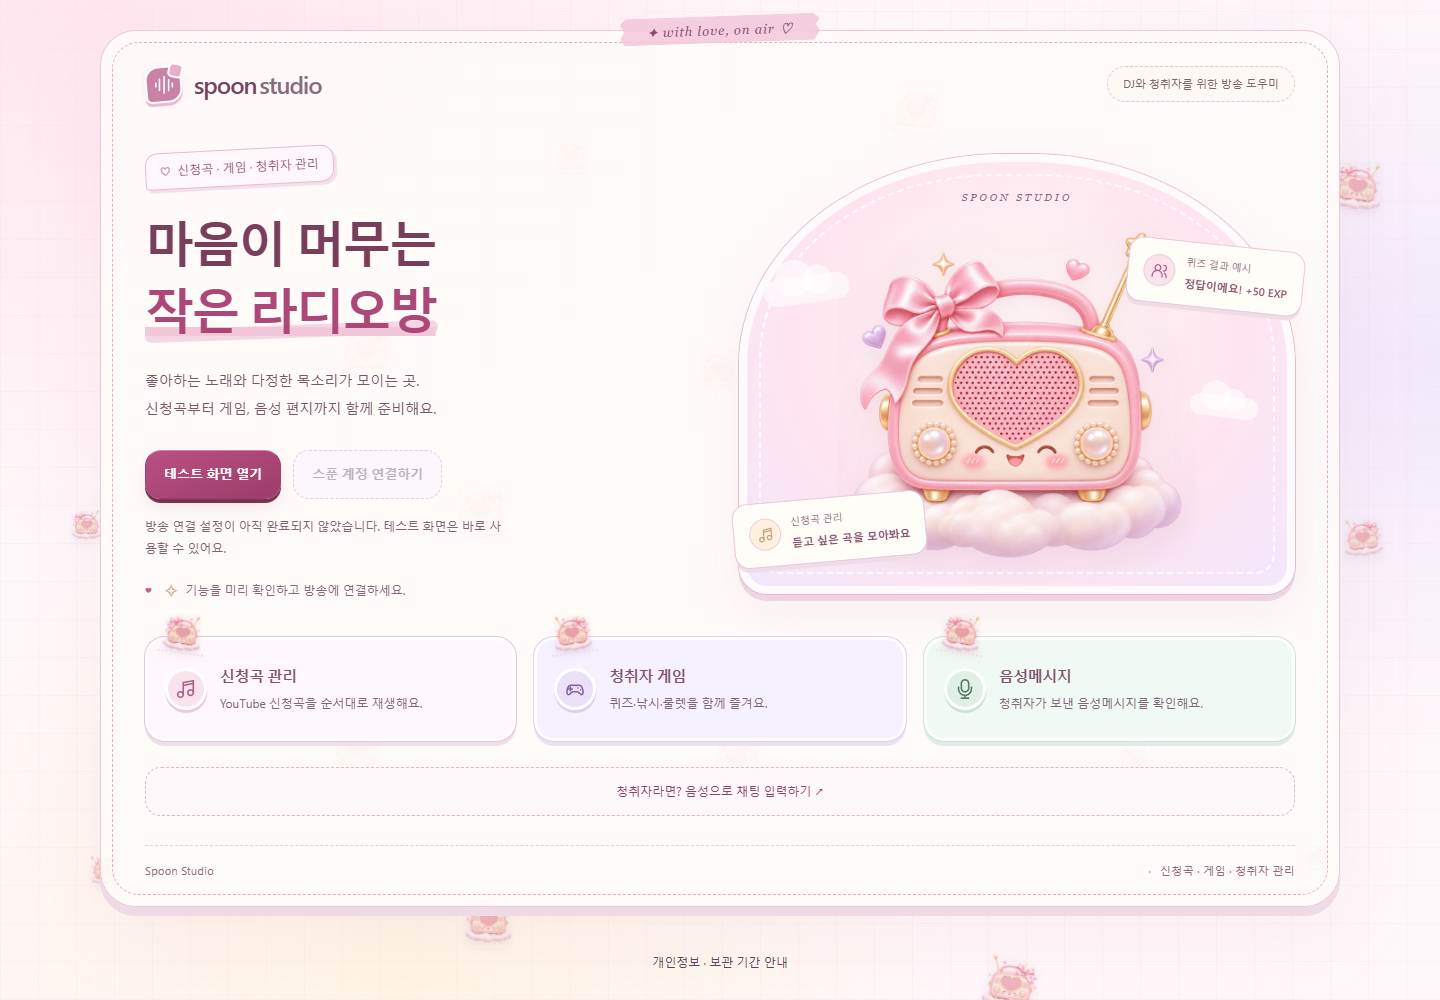
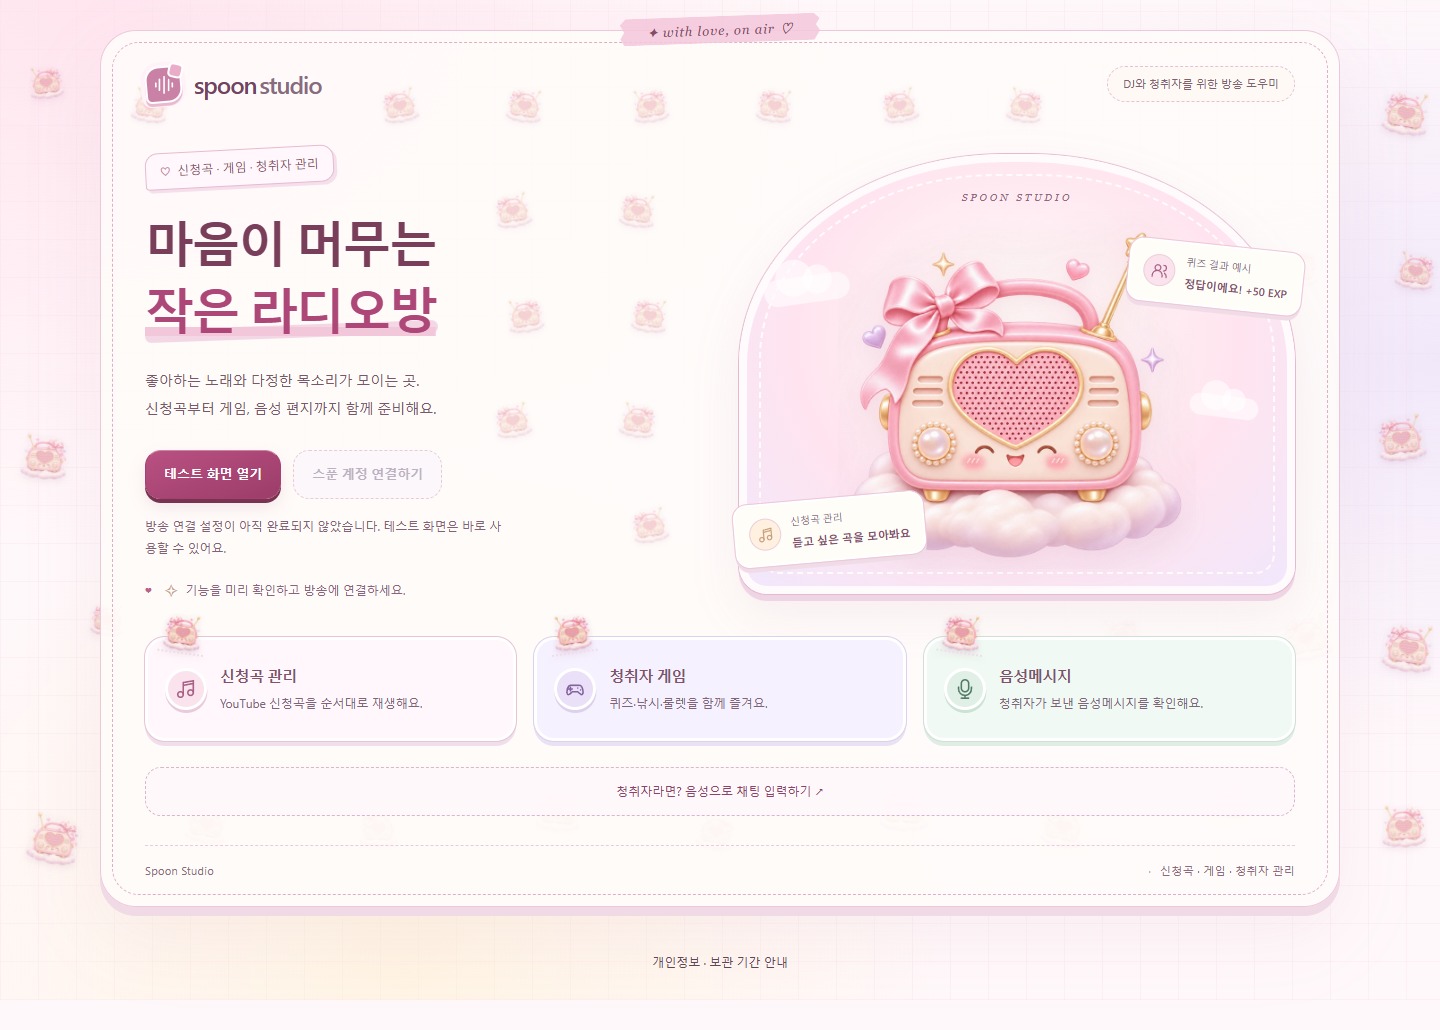
Add more radio minimi wallpaper and official Spoon charging links

diff --git a/public/minimi.js b/public/minimi.js
@@ -3,21 +3,51 @@
   const SRC = '/radio-bloom-mini.webp';
   let seed = 7;
   const rnd = () => (seed = (seed * 16807) % 2147483647) / 2147483647;
+  let wallpaperSize='';
+  function sticker(layer,x,y,size,rotation,flip,index){
+    const img=document.createElement('img');img.src=SRC;img.alt='';img.decoding='async';
+    img.style.cssText=`left:${Math.round(x)}px;top:${Math.round(y)}px;width:${size}px;--r:${rotation}deg;--f:${flip};animation-delay:-${index*.47}s`;
+    layer.appendChild(img);
+  }
   function makeLayer() {
-    if (document.querySelector('.minimi-layer')) return;
-    const layer = document.createElement('div');
-    layer.className = 'minimi-layer';
-    layer.setAttribute('aria-hidden', 'true');
-    const cols = innerWidth < 800 ? 3 : 7, rows = innerWidth < 800 ? 6 : 5;
-    for (let r = 0; r < rows; r++) for (let c = 0; c < cols; c++) {
-      if ((r + c) % 2) continue;
-      const img = document.createElement('img');
-      img.src = SRC; img.alt = ''; img.decoding = 'async'; img.loading = 'lazy';
-      const w = 30 + Math.round(rnd() * 32);
-      img.style.cssText = `left:${((c + 0.15 + rnd() * 0.7) / cols * 100).toFixed(1)}%;top:${((r + 0.15 + rnd() * 0.7) / rows * 100).toFixed(1)}%;width:${w}px;--r:${Math.round(rnd() * 24 - 12)}deg;--f:${rnd() < 0.5 ? 0 : 1};animation-delay:-${(rnd() * 5).toFixed(1)}s`;
-      layer.appendChild(img);
+    const width=document.documentElement.clientWidth,height=Math.max(document.body.scrollHeight,innerHeight),key=width+':'+height+':'+document.querySelector('#shell')?.dataset.page+':'+document.querySelector('#login')?.hidden;
+    let layer=document.querySelector('.minimi-layer');
+    if(!layer){layer=document.createElement('div');layer.className='minimi-layer';layer.setAttribute('aria-hidden','true');document.body.prepend(layer);}
+    if(key===wallpaperSize)return;wallpaperSize=key;layer.replaceChildren();layer.style.height=height+'px';seed=7;
+    const blocked=[...document.querySelectorAll('#page-title,.header-actions,.page-description,.banner,.welcome-top,.landing-copy,.welcome-footer,footer,body>p')].map(el=>{const r=el.getBoundingClientRect();return {left:r.left,right:r.right,top:r.top+scrollY,bottom:r.bottom+scrollY,width:r.width,height:r.height};}).filter(r=>r.width&&r.height);
+    const mobile=width<800,stepX=mobile?105:170,stepY=mobile?155:180;
+    let index=0;
+    for(let y=22;y<height-30&&index<150;y+=stepY)for(let x=10;x<width-25&&index<150;x+=stepX){
+      const size=Math.round((mobile?25:36)+rnd()*(mobile?9:20));
+      const px=Math.max(3,Math.min(width-size-4,x+((Math.round(y/stepY)%2)?stepX*.4:0)+rnd()*20));
+      const py=Math.min(height-size-4,y+rnd()*40);
+      if(blocked.some(r=>px<r.right+10&&px+size>r.left-10&&py<r.bottom+10&&py+size>r.top-10))continue;
+      sticker(layer,px,py,size,Math.round(rnd()*24-12),rnd()<.5?0:1,index++);
     }
-    document.body.prepend(layer);
+  }
+  function fillWelcomePaper(){
+    const host=document.querySelector('.welcome-home');if(!host||host.hidden)return;
+    let layer=host.querySelector(':scope > .minimi-wallpaper');
+    if(!layer){layer=document.createElement('div');layer.className='minimi-wallpaper';layer.setAttribute('aria-hidden','true');host.prepend(layer);}
+    layer.replaceChildren();
+    const box=host.getBoundingClientRect(),blocked=[];
+    for(const el of host.querySelectorAll('button,a,input,.welcome-stage,.welcome-features article')){
+      const r=el.getBoundingClientRect();if(r.width&&r.height)blocked.push(r);
+    }
+    const walker=document.createTreeWalker(host,NodeFilter.SHOW_TEXT);
+    while(walker.nextNode()){
+      const node=walker.currentNode;if(!node.textContent.trim()||node.parentElement.closest('.minimi-wallpaper'))continue;
+      const range=document.createRange();range.selectNodeContents(node);
+      for(const rect of range.getClientRects())if(rect.width&&rect.height)blocked.push(rect);
+    }
+    const mobile=box.width<700,size=mobile?30:38,stepX=mobile?75:125,stepY=mobile?100:105;
+    let index=0;
+    for(let y=55;y<box.height-40;y+=stepY)for(let x=18;x<box.width-size-16;x+=stepX){
+      const px=x+(Math.round(y/stepY)%2)*12,py=y;
+      const left=box.left+px,top=box.top+py;
+      if(blocked.some(r=>left<r.right+12&&left+size>r.left-12&&top<r.bottom+12&&top+size>r.top-12))continue;
+      sticker(layer,px,py,size,index%2?-9:8,index%3===0?1:0,index++);
+    }
   }
   function fillGaps() {
     for (const card of document.querySelectorAll('main .card:not(.playback-panel):not(.stat-card)')) {
@@ -55,9 +85,9 @@
     }
   }
   let timer;
-  const schedule = () => { clearTimeout(timer); timer = setTimeout(() => { observer.disconnect(); fillGaps(); observe(); }, 120); };
+  const schedule = () => { clearTimeout(timer); timer = setTimeout(() => { observer.disconnect(); makeLayer(); fillWelcomePaper(); fillGaps(); observe(); }, 120); };
   const observer = new MutationObserver(schedule);
-  const observe = () => { const m = document.querySelector('main'); if (m) observer.observe(m, { childList: true, subtree: true }); };
-  const start = () => { makeLayer(); observe(); schedule(); addEventListener('resize', schedule); };
+  const observe = () => { const m = document.querySelector('main'); if (m) observer.observe(m, { childList: true, subtree: true }); for(const host of document.querySelectorAll('#login,#shell'))observer.observe(host,{attributes:true,attributeFilter:['hidden']}); };
+  const start = () => { makeLayer(); observe(); schedule(); addEventListener('resize', schedule); document.fonts?.ready.then(schedule); };
   document.readyState === 'loading' ? addEventListener('DOMContentLoaded', start) : start();
 })();

diff --git a/public/bloom.css b/public/bloom.css
@@ -31,3 +31,13 @@ input,textarea,select{border-color:#e3bed3!important;background:#fffbfd!importan
 @media(max-width:800px){.welcome-home{margin:22px 12px 30px;width:calc(100% - 24px);padding:24px 22px 21px;border-radius:27px;gap:26px}.welcome-home:before{inset:8px;border-radius:20px}.welcome-home:after{font-size:10px;top:-13px;padding:5px 20px}.welcome-home .landing-copy{padding-top:0}.welcome-home h1{font-size:36px;letter-spacing:-1.8px;margin:17px 0}.welcome-home .welcome-description{font-size:12px}.welcome-home .welcome-stage{width:calc(100% - 10px);margin:0 5px 12px;min-height:350px;border-width:6px}.welcome-stage:after{inset:9px}.welcome-mascot{inset:40px 0 19px}.welcome-stage .welcome-note{max-width:170px;padding:8px;gap:5px}.welcome-stage .note-heart{top:69px;right:-13px}.welcome-stage .note-song{bottom:18px;left:-13px}.welcome-stage .welcome-note strong{font-size:9px}.welcome-stage .welcome-note small{font-size:9px}.welcome-home .welcome-features{gap:20px}.welcome-home .welcome-features article{padding:20px 16px}.welcome-top-note{max-width:126px;font-size:9px}.listener-entry{font-size:11px;padding:12px 9px}.welcome-footer{font-size:9px;gap:8px}.welcome-actions{gap:10px}.welcome-actions button{min-height:46px;font-size:12px}aside:before{display:none}aside .brand{padding-bottom:0;border:0}.dashboard-intro.cute-hero{padding:23px 20px;min-height:286px}.cute-hero h2{font-size:26px;max-width:200px}.cute-hero:after{font-size:8px;top:10px;right:10px}.cute-hero>.radio-buddy{width:134px;right:-7px;top:39px}.cute-hero p{max-width:190px;font-size:11px}.cute-hero:before{width:145px;height:145px;top:29px;right:-7px}.studio-shortcuts{gap:6px;margin-top:20px}.studio-shortcuts button{padding:7px 8px;font-size:10px}.stat-card{min-height:143px;padding:17px 14px}.stat-value{font-size:29px}.card{border-radius:20px}.card>.section-head{padding-bottom:11px}.minimi-layer img{opacity:.48}.stat-note{font-size:10px;line-height:1.5}nav button{min-height:38px}nav button.active:after{display:none}}
 @media(prefers-reduced-motion:reduce){.primary:hover,button:hover{transform:none!important}}
 .queue-actions{display:flex;align-items:center;gap:6px;white-space:nowrap}.queue-actions button{min-width:34px;min-height:34px;padding:5px 9px}.queue-actions button:disabled{opacity:.4;box-shadow:none}
+/* More tiny radios on the paper: decorative only, always behind the controls. */
+body{position:relative;min-height:100vh}
+.minimi-layer{position:absolute;inset:0 auto auto 0;width:100%;overflow:hidden;pointer-events:none;z-index:0}
+.minimi-layer img{opacity:.68;animation:none;filter:drop-shadow(0 3px 4px #b8799829)}
+.minimi-wallpaper{position:absolute;inset:0;z-index:-1;overflow:hidden;border-radius:inherit;pointer-events:none}
+.minimi-wallpaper img{position:absolute;height:auto;opacity:.46;transform:rotate(var(--r)) scaleX(calc(1 - 2*var(--f)));filter:drop-shadow(0 2px 3px #bc83a029)}
+@media(prefers-reduced-motion:no-preference) and (min-width:801px){.minimi-layer img:nth-child(4n){animation:minimi-bob 7s ease-in-out infinite}}
+@media(max-width:800px){.minimi-layer img{width:auto!important;max-width:34px;opacity:.5;animation:none}.minimi-wallpaper img{opacity:.4}}
+@media print{.minimi-layer,.minimi-wallpaper{display:none}}
+.charge-link{display:inline-block;color:#8f315e;font-weight:700;text-decoration:underline;text-underline-offset:3px;overflow-wrap:anywhere}.charge-link:hover{color:#6f2449}.charge-link:focus-visible{outline:3px solid #ac5b84;outline-offset:4px}
